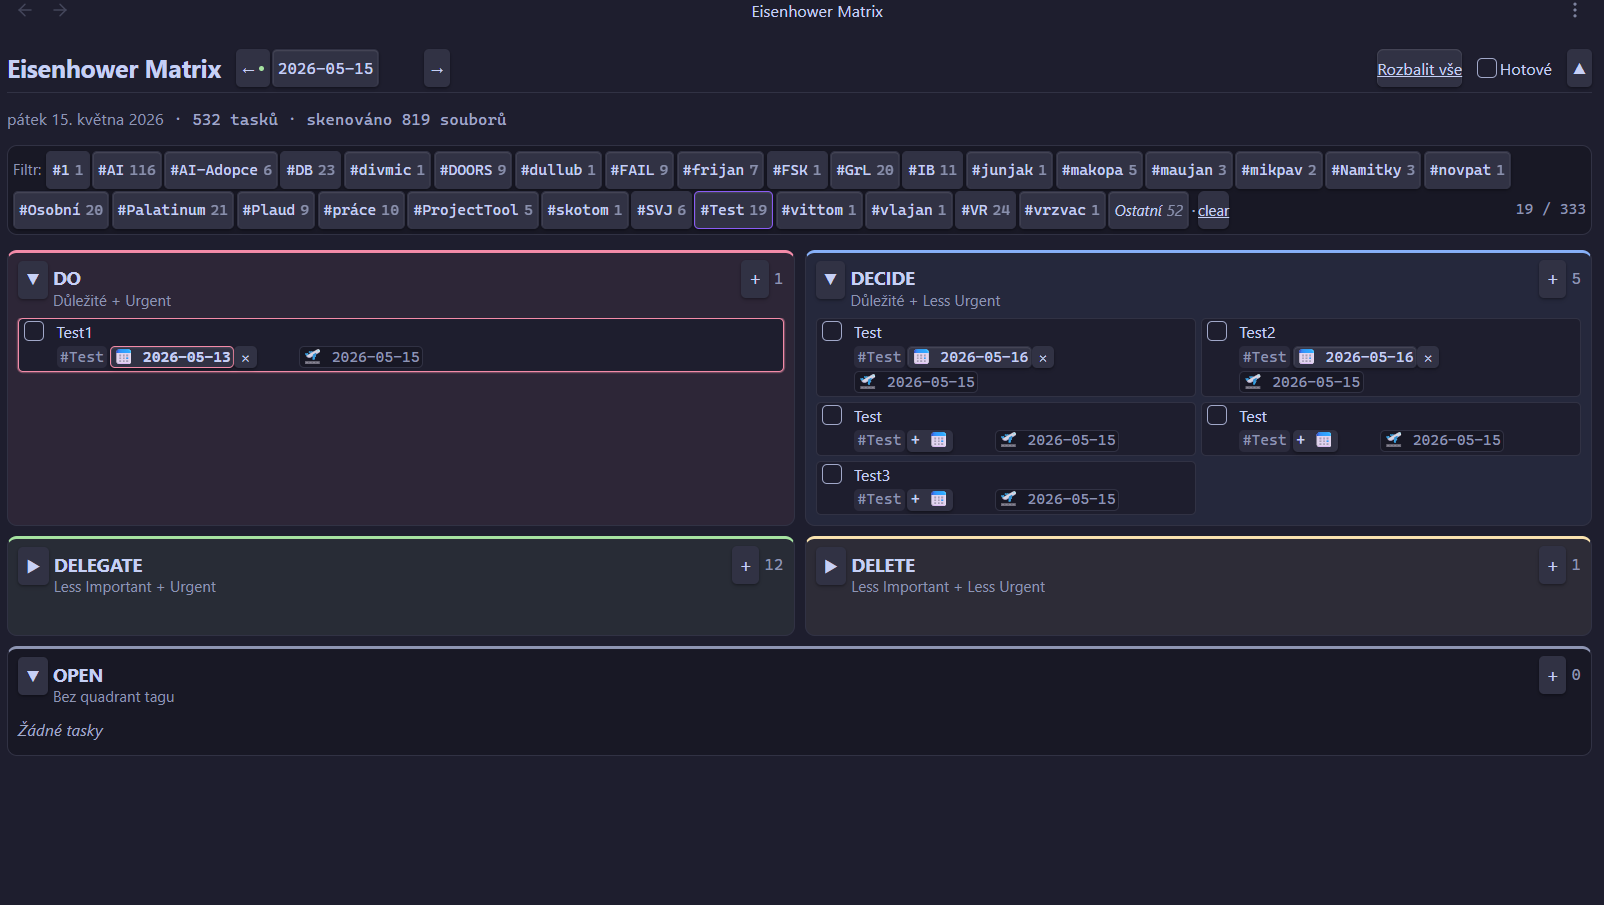
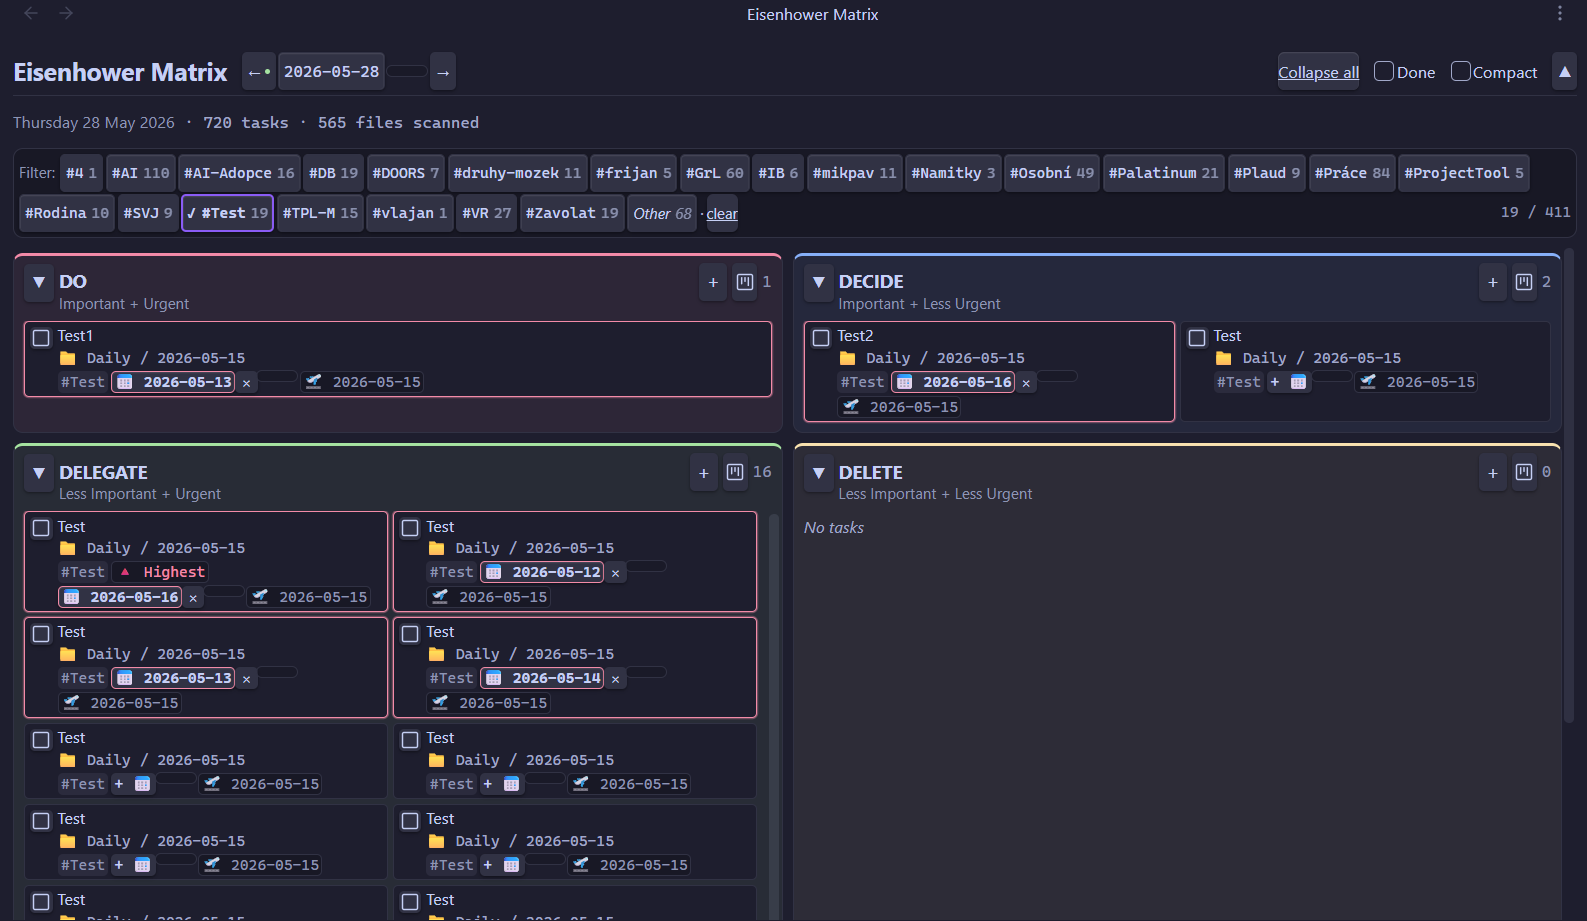
docs: refresh screenshots (English UI + Kanban view)
- Updated Light.png / Dark.png to the current English UI.
- Added Dark_Kanban.png showing the Kanban status columns.
- Replaced Mobil.jpg with Mobile.png; updated both READMEs and
  dropped the stale "screenshots show Czech labels" note.

diff --git a/README.cs.md b/README.cs.md
@@ -6,17 +6,16 @@ Vizualizace tasků napříč celým vault-em v **5-polové Eisenhower matici** (
 
 > Ranní dashboard pro rozhodnutí *co dělat teď*: ráno otevřu, vidím tasky rozdělené podle priority, odškrtnu hotové, případně přidám nové. Source-of-truth zůstávají MD soubory, plugin je jen vizuální vrstva nad nimi.
 
-> **Pozn.:** screenshoty níže jsou pořízené před lokalizací UI — pořád ukazují české popisky. UI pluginu je teď anglicky.
-
 <table>
   <tr>
     <td><img src="docs/Light.png" alt="Light theme" /></td>
     <td><img src="docs/Dark.png" alt="Dark theme" /></td>
   </tr>
   <tr>
-    <td colspan="2" align="center">
-      <img src="docs/Mobil.jpg" alt="Mobile" width="320" />
-    </td>
+    <td colspan="2" align="center"><img src="docs/Dark_Kanban.png" alt="Kanban zobrazení — status sloupce" /></td>
+  </tr>
+  <tr>
+    <td colspan="2" align="center"><img src="docs/Mobile.png" alt="Mobile" width="320" /></td>
   </tr>
 </table>
 

diff --git a/README.md b/README.md
@@ -6,17 +6,16 @@ Visualize tasks across your entire vault in a **5-quadrant Eisenhower matrix** (
 
 > A morning dashboard for deciding *what to do now*: open it, see tasks split by priority, check off the done ones, add new ones. Markdown files stay the source of truth — the plugin is just a visual layer on top.
 
-> **Note:** the screenshots below were taken before the UI was localized — they still show Czech labels. The plugin UI is now in English.
-
 <table>
   <tr>
     <td><img src="docs/Light.png" alt="Light theme" /></td>
     <td><img src="docs/Dark.png" alt="Dark theme" /></td>
   </tr>
   <tr>
-    <td colspan="2" align="center">
-      <img src="docs/Mobil.jpg" alt="Mobile" width="320" />
-    </td>
+    <td colspan="2" align="center"><img src="docs/Dark_Kanban.png" alt="Kanban view — status columns" /></td>
+  </tr>
+  <tr>
+    <td colspan="2" align="center"><img src="docs/Mobile.png" alt="Mobile" width="320" /></td>
   </tr>
 </table>
 